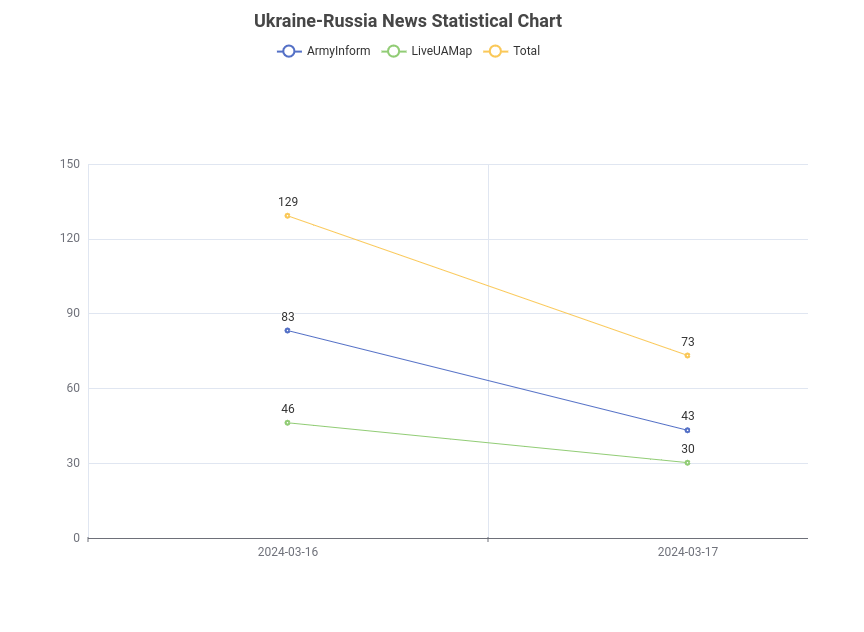
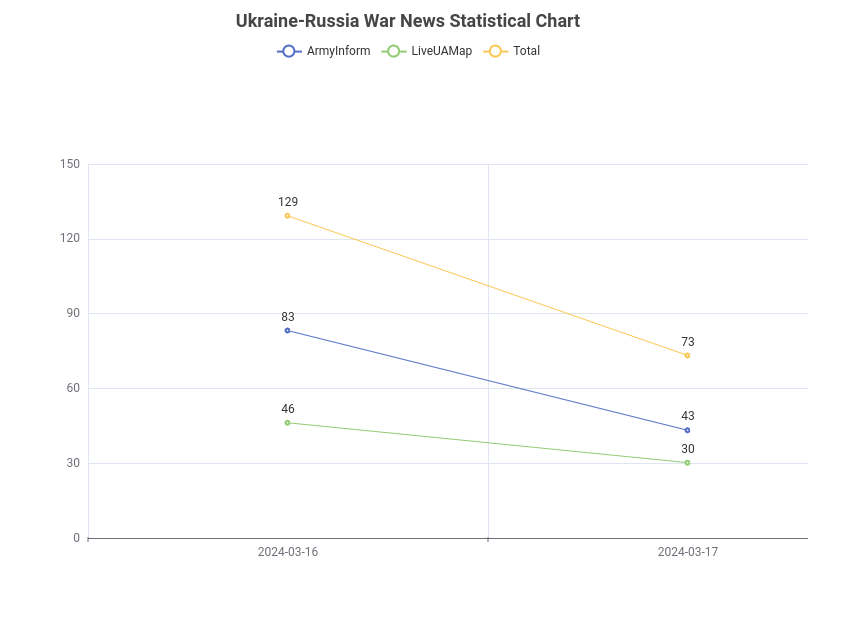
News.

Changed region(s): [[0.2812, 0.0, 0.6875, 0.0601]]

diff --git a/pages/statistic_render.html b/pages/statistic_render.html
@@ -7,11 +7,11 @@
 
 </head>
 <body >
-    <div id="181dad1dc0fe43a7b62021f9268fb15a" class="chart-container" style="width:800px; height:600px; "></div>
+    <div id="21593eb68b7d479b95ad36d13738e1dc" class="chart-container" style="width:800px; height:600px; "></div>
     <script>
-        var chart_181dad1dc0fe43a7b62021f9268fb15a = echarts.init(
-            document.getElementById('181dad1dc0fe43a7b62021f9268fb15a'), 'white', {renderer: 'canvas'});
-        var option_181dad1dc0fe43a7b62021f9268fb15a = {
+        var chart_21593eb68b7d479b95ad36d13738e1dc = echarts.init(
+            document.getElementById('21593eb68b7d479b95ad36d13738e1dc'), 'white', {renderer: 'canvas'});
+        var option_21593eb68b7d479b95ad36d13738e1dc = {
     "animation": true,
     "animationThreshold": 2000,
     "animationDuration": 1000,
@@ -264,7 +264,7 @@
     "title": [
         {
             "show": true,
-            "text": "Ukraine-Russia News Statistical Chart",
+            "text": "Ukraine-Russia War News Statistical Chart",
             "target": "blank",
             "subtarget": "blank",
             "left": "center",
@@ -291,7 +291,7 @@
         }
     ]
 };
-        chart_181dad1dc0fe43a7b62021f9268fb15a.setOption(option_181dad1dc0fe43a7b62021f9268fb15a);
+        chart_21593eb68b7d479b95ad36d13738e1dc.setOption(option_21593eb68b7d479b95ad36d13738e1dc);
     </script>
 </body>
 </html>
